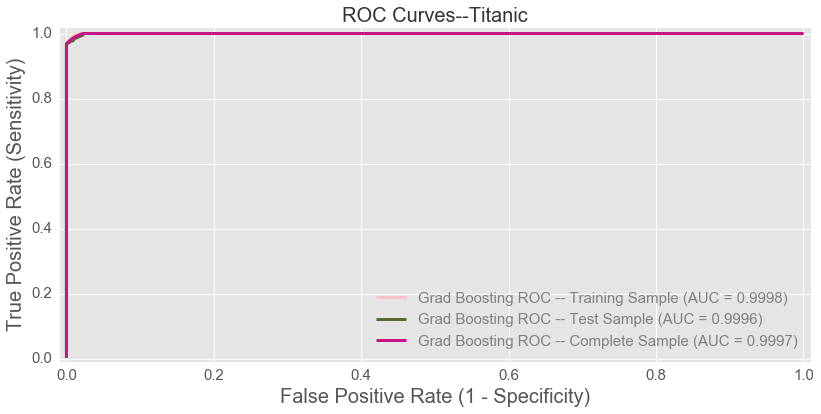
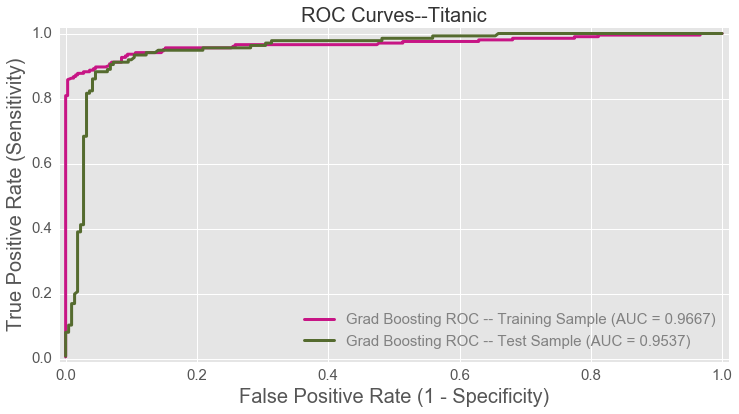
misc

diff --git a/_posts/2016-05-30-titanic.md b/_posts/2016-05-30-titanic.md
@@ -99,7 +99,7 @@ Further, I compared the accuracy scores across various algorithms (Decision Tree
 
 Finally, I performed a random over-sampling technique. Since more Titanic passengers died than survived, the number of observations belonging to this class was substantially higher than those belonging to the other class. Out of all minority over-sampling techniques, I chose Random Oversampler to combat imbalanced classes. From my experience, it tends to yield higher model accuracy scores. To evaluate and tune my model, I conducted [nested cross-validation](https://chrisalbon.com/machine-learning/nested_cross_validation.html) since it is the best way to evaluate a model when a data set is small. This technique allows to avoid a model's overfitting (Cawley, & Talbot, 2010). 
 
-After performing all these techniques, I obtained a 99.08% accuracy score on my training set, 98.64% on my test set, and 98.91% accuracy on my complete data set. Below are the confusion matrices for training, test, and complete data sets.
+After performing all these techniques, I obtained a 99.08% accuracy score on my training set and 91.57% on my test set. Below are the confusion matrices for training, test, and complete data sets.
 
 
 ![Confusion Matrix]({{ site.url }}{{ site.baseurl }}/images/pic3_8.png){: .align-center}
@@ -113,7 +113,7 @@ These techniques also helped me yeild very high AUC scores.
 
 ### Conclusion
 
-Achieving 98.64% accuracy on 40% of the Titanic test data is quite impressive. This would be a top 2% score on the Kaggle board. I don’t think I expected these results, and I am pleasantly surprised. This high score was achieved using an imputation technique, a synthetic minority over-sampling technique (Random Over Sampler), and statistical modeling techniques. 
+Achieving 91.57% accuracy on 40% of the Titanic test data without overfitting is quite good. This would be a top 10% score on the Kaggle board. I don’t think I expected these results using the techniques I did, and I am pleasantly surprised. This high score was achieved using a complex imputation technique, a synthetic minority over-sampling technique (Random Over Sampler), and statistical modeling techniques. 
 
 {% capture notice-2 %}
 #### REFERENCES
